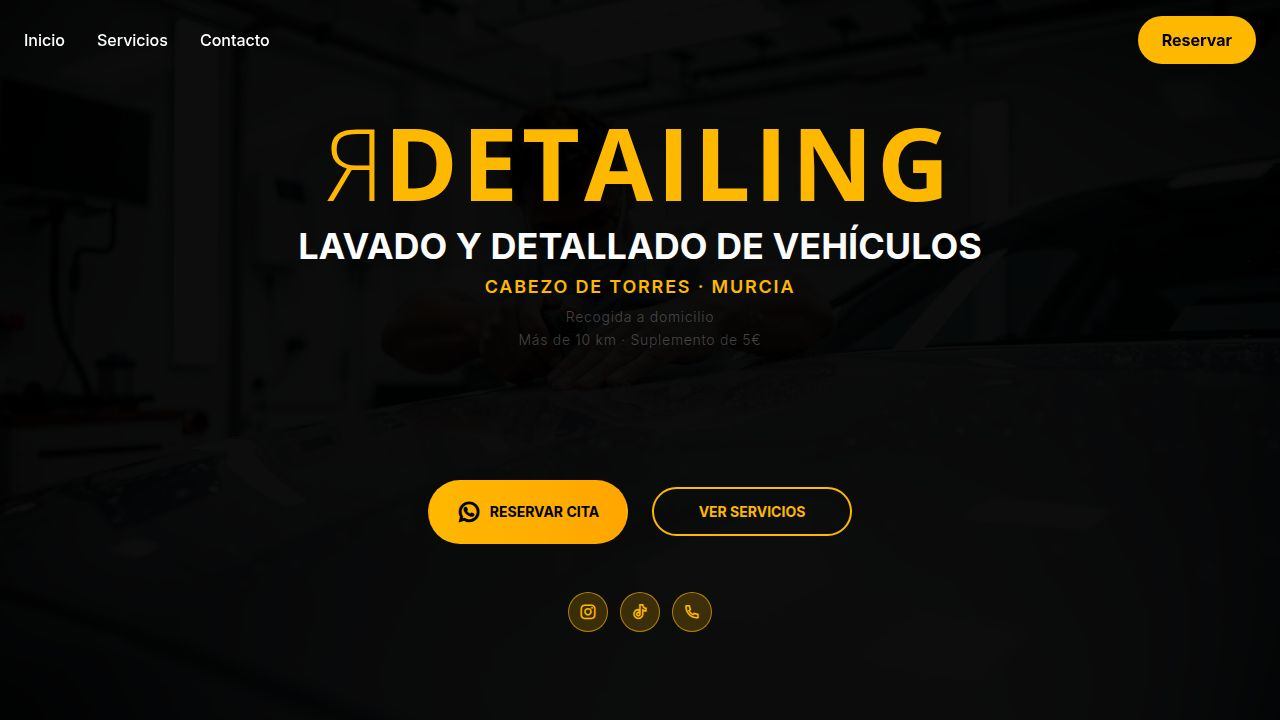
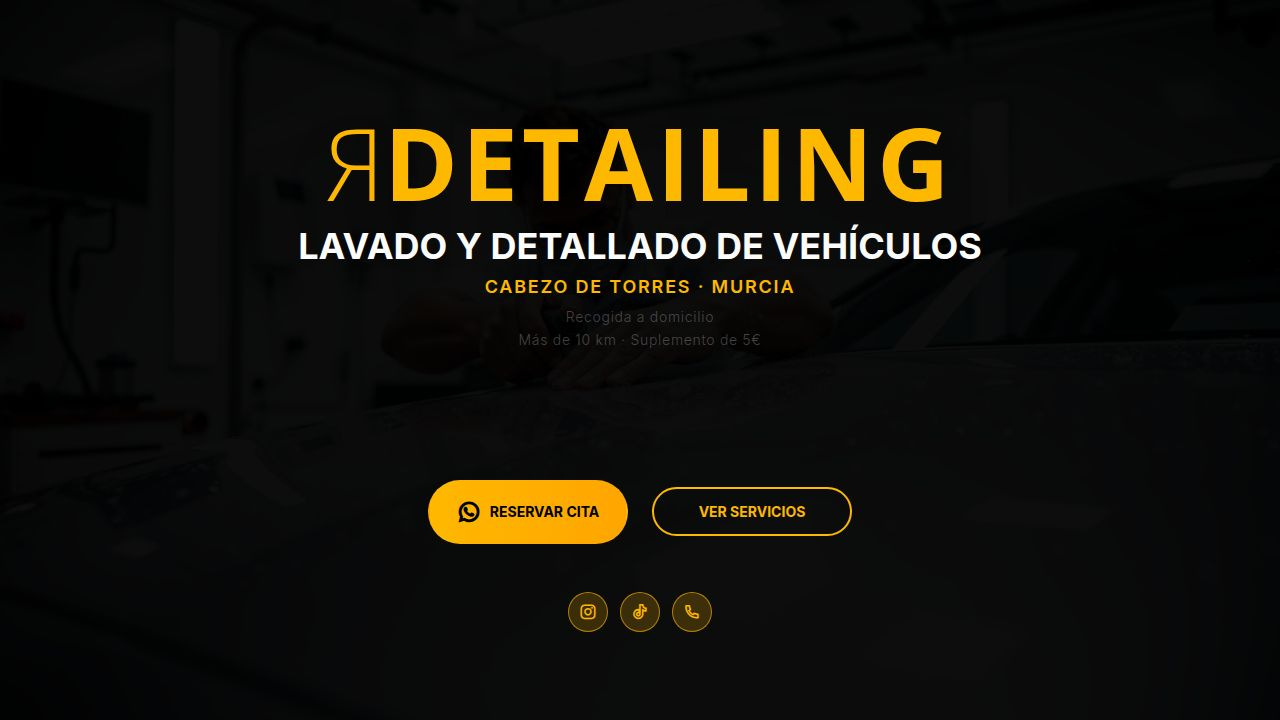
Adjust vehicle size selection and pet hair warning text
Update `VehicleSizeSelector` to adjust scroll offset for mobile devices and modify the pet hair warning text in `BasicService` to display on two lines.

Replit-Commit-Author: Agent
Replit-Commit-Session-Id: ee39fbd5-00f1-416b-904d-9438d0af81d3
Replit-Commit-Checkpoint-Type: full_checkpoint
Replit-Commit-Event-Id: c4a80c12-ab3e-4a39-9b00-9177786c49a9
Replit-Commit-Screenshot-Url: https://storage.googleapis.com/screenshot-production-us-central1/bb93eb64-efc6-4d93-a42a-392788e5555f/ee39fbd5-00f1-416b-904d-9438d0af81d3/VX7O5hf
Replit-Helium-Checkpoint-Created: true

Changed region(s): [[0.875, 0.0, 1.0, 0.0917], [0.0312, 0.0306, 0.125, 0.0611], [0.1562, 0.0306, 0.2188, 0.0611]]

diff --git a/artifacts/r-detailing/src/pages/home/components/BasicService.tsx b/artifacts/r-detailing/src/pages/home/components/BasicService.tsx
@@ -143,7 +143,7 @@ export default function BasicService({ service, vehicleSize }: BasicServiceProps
                 <span className={`absolute top-1/2 -translate-y-1/2 w-5 h-5 rounded-full bg-white transition-all duration-200 ${hasPetHair ? 'left-6' : 'left-1'}`} />
               </button>
             </div>
-            <p className="text-white/40 text-[9px] mt-2">Si tu coche tiene pelos de mascota, es obligatorio marcar esta casilla.</p>
+            <p className="text-white/40 text-[9px] mt-2 leading-snug max-w-[15rem]">Si tu coche tiene pelos de mascota,<br />es obligatorio marcar esta casilla.</p>
           </div>
 
           <div className="flex items-center justify-between border-t border-[#FFB800]/20 pt-3 mt-3 mb-1">
@@ -218,7 +218,8 @@ export default function BasicService({ service, vehicleSize }: BasicServiceProps
                   <span className={`absolute top-1/2 -translate-y-1/2 w-6 h-6 rounded-full bg-white transition-all duration-200 ${hasPetHair ? 'left-7' : 'left-1'}`} />
                 </button>
               </div>
-              <p className="text-white/40 text-xs mt-2">Si tu coche tiene pelos de mascota, es obligatorio marcar esta casilla.</p>
+              <p className="text-white/40 text-xs mt-2 leading-snug max-w-xs">Si tu coche tiene pelos de mascota,
+es obligatorio marcar esta casilla.</p>
             </div>
           </div>
 

diff --git a/artifacts/r-detailing/src/pages/home/components/VehicleSizeSelector.tsx b/artifacts/r-detailing/src/pages/home/components/VehicleSizeSelector.tsx
@@ -41,7 +41,7 @@ export default function VehicleSizeSelector({ onSelect, selected }: VehicleSizeS
     requestAnimationFrame(() => {
       const el = document.getElementById('services');
       if (el) {
-        const offset = 80;
+        const offset = window.innerWidth < 768 ? window.innerHeight * 0.22 : 80;
         const top = el.getBoundingClientRect().top + window.scrollY - offset;
         window.scrollTo({ top, behavior: 'smooth' });
       }